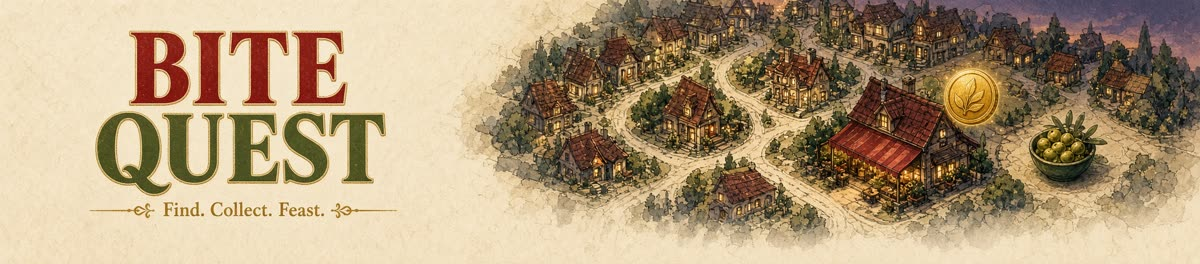
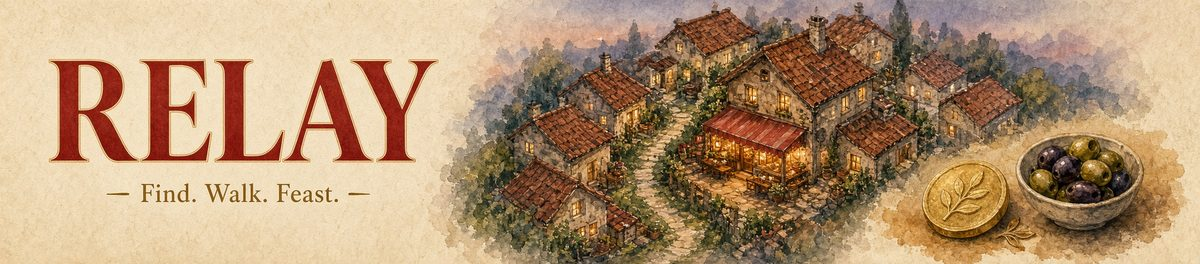
Remove leftover BiteQuest images.
Replace the share cards with Relay artwork and drop screenshots captured under the old name.

diff --git a/src/lib/client/index.ts b/src/lib/client/index.ts
@@ -1,20 +1,20 @@
 import { createHttpApi } from "@/lib/client/http-api";
-import type { BiteQuestApi } from "@/lib/client/types";
+import type { RelayApi } from "@/lib/client/types";
 import { mockApi } from "@/lib/mock/api";
 
-export type { BiteQuestApi } from "@/lib/client/types";
+export type { RelayApi } from "@/lib/client/types";
 
 function apiMode(): "mock" | "live" {
   return import.meta.env.VITE_API_MODE === "live" ? "live" : "mock";
 }
 
-let liveApi: BiteQuestApi | null = null;
+let liveApi: RelayApi | null = null;
 
 export function isMockMode(): boolean {
   return apiMode() === "mock";
 }
 
-export function getApi(): BiteQuestApi {
+export function getApi(): RelayApi {
   if (apiMode() === "live") {
     liveApi ??= createHttpApi("/api/v1");
     return liveApi;

diff --git a/src/lib/client/http-api.ts b/src/lib/client/http-api.ts
@@ -13,7 +13,7 @@ import type {
   VisitResponse,
   WalletResponse,
 } from "@/lib/contracts";
-import type { BiteQuestApi } from "@/lib/client/types";
+import type { RelayApi } from "@/lib/client/types";
 
 async function readJson<T>(response: Response): Promise<T> {
   const text = await response.text();
@@ -63,7 +63,7 @@ function parseFrames(buffer: string, flush: boolean): { events: { event: string;
   return { events, rest: flush ? "" : rest };
 }
 
-export function createHttpApi(base = "/api/v1"): BiteQuestApi {
+export function createHttpApi(base = "/api/v1"): RelayApi {
   async function send<T>(path: string, init?: RequestInit): Promise<T> {
     let response: Response;
     try {

diff --git a/src/lib/mock/api.ts b/src/lib/mock/api.ts
@@ -31,9 +31,9 @@ import {
   VISIT_REWARD_CENTS,
   XP_PER_LEVEL,
 } from "@/lib/rules";
-import type { BiteQuestApi } from "@/lib/client/types";
+import type { RelayApi } from "@/lib/client/types";
 
-const STORAGE_KEY = "bitequest.demo.v1";
+const STORAGE_KEY = "relay.demo.v1";
 
 type Collected = { discoveredAt: string; xpAwarded: number };
 type Earn = { restaurantId: string; sfDate: string; visitId: string; amountCents: number };
@@ -465,7 +465,7 @@ async function streamAdventure(
   onEvent({ type: "complete", plan });
 }
 
-export const mockApi: BiteQuestApi = {
+export const mockApi: RelayApi = {
   async ensureSession() {
     return sessionFrom(state);
   },

diff --git a/src/lib/client/types.ts b/src/lib/client/types.ts
@@ -13,7 +13,7 @@ import type {
   CollectionResponse,
 } from "@/lib/contracts";
 
-export type BiteQuestApi = {
+export type RelayApi = {
   ensureSession(): Promise<SessionResponse>;
   getSummary(): Promise<Summary>;
   getNearby(query: NearbyQuery): Promise<NearbyResponse>;
